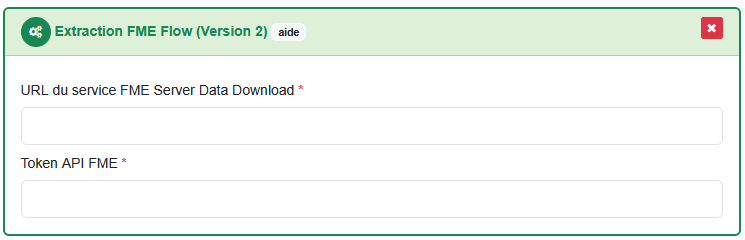
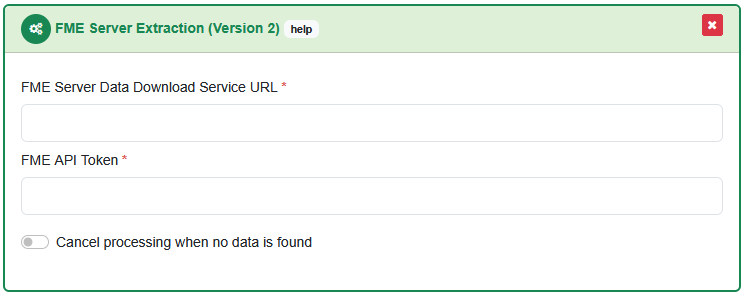
update doc

diff --git a/docs/how-to/python.md b/docs/how-to/python.md
@@ -250,6 +250,28 @@ python main.py parameters.json
 
 5. Finally, you can order the linked product on viageo, Extract will retrieve the request and run the FME workspace with all request parameters carried out in the GeoJSON parameters file.
 
+## Gracefully handle extractions that return no data
+By default, when no data is outputted from the extraction, the request in Extract fails because it cannot export data back the third-part service (e.g. viageo.ch). In the `Python Extraction` plugin, The "Cancel the processing when no data is found" option allows a request to end gracefully when the extraction returns no data. If the option is enabled, the plugin will search for the marker `noDataForExtract` in the logs outputted by the Python program. If the marker is found, the request is canceled and the final client is notified with the given remark (mandatory).
+
+In Python, you can raise an Exception with the correct text to output. Here is an example testing if a `geojson` file is empty:
+
+```python
+# If outputted file is s geojson, check if empty, if yes raise error
+ouput_geojson = os.path.join(
+	parameters["properties"]["FolderOut"],
+	f"result.{parameters["properties"]["Parameters"]["FORMAT"].lower()}"
+)
+
+open(ouput_geojson, "r", encoding="utf-8") as json_file:
+		ouput_geojson = json.load(json_file)
+
+if len(ouput_geojson["features"]) == 0:
+		raise Exception("noDataForExtract")
+```
+
+
+
+
 <br>
 <br>
 <br>

diff --git a/docs/how-to/fme-flow.md b/docs/how-to/fme-flow.md
@@ -77,9 +77,13 @@ Or downloading a ZIP archive with the following link : https://github.com/asit-a
 
 5. Finally, you can order the linked product on viageo, Extract will retrieve the request and run the FME workspace by calling the FME Flow Data Download Service with all request parameters carried out in API request's body.
 
-<br>
-<br>
-<br>
-<br>
+## Gracefully handle extractions that return no data
+By default, when no data is outputted from the extraction, the request in Extract fails because it cannot export data back the third-part service (e.g. viageo.ch). In the `FME Server Extraction (Version 2)` plugin, The "Cancel the processing when no data is found" option allows a request to end gracefully when the extraction returns no data. If the option is enabled, the plugin will search for the marker `noDataForExtract` in the response given by FME Flow. If the marker is found, the request is canceled and the final client is notified with the given remark (mandatory).
 
+You can adapt the FME workbench make FME Flow output the correct marker. See see [Gracefully handle extractions that return no data](../how-to/fme-form.md#gracefully-handle-extractions-that-return-no-data)
+
+<br>
+<br>
+<br>
+<br>
 <br>

diff --git a/docs/how-to/fme-form.md b/docs/how-to/fme-form.md
@@ -70,6 +70,13 @@ Or downloading a ZIP archive with the following link : https://github.com/asit-a
 
 5. Finally, you can order the linked product on viageo, Extract will retrieve the request and run the FME workspace with all request parameters carried out in the GeoJSON parameters file.
 
+## Gracefully handle extractions that return no data
+By default, when no data is outputted from the extraction, the request in Extract fails because it cannot export data back the third-part service (e.g. viageo.ch). In the `FME Form Extraction (Version 2)` plugin, The "Cancel the processing when no data is found" option allows a request to end gracefully when the extraction returns no data. If the option is enabled, the plugin will search for the marker `noDataForExtract` in the logs outputted by FME. If the marker is found, the request is canceled and the final client is notified with the given remark (mandatory).
+
+In FME, you can use a `NoFeatureTester` transformer to test if no data is extracted and a `Terminator` transformer to terminate the process with a failing exit code and to output the `noDataForExtract` marker to the logs :
+
+![plugin](../assets/how-to/fme-form/terminator.png)
+
 <br>
 <br>
 <br>
